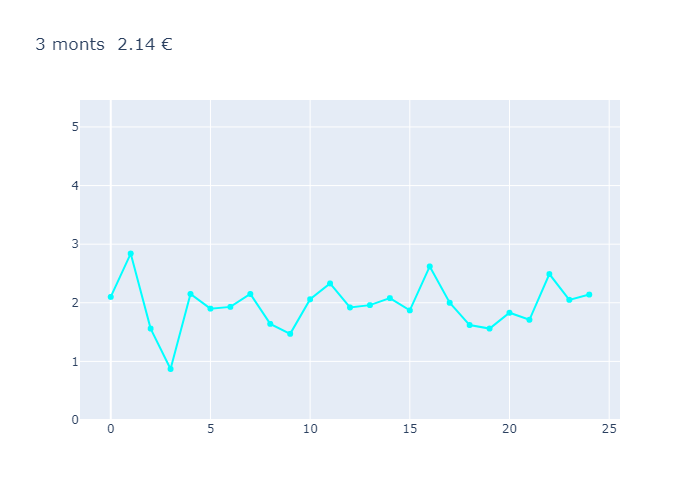
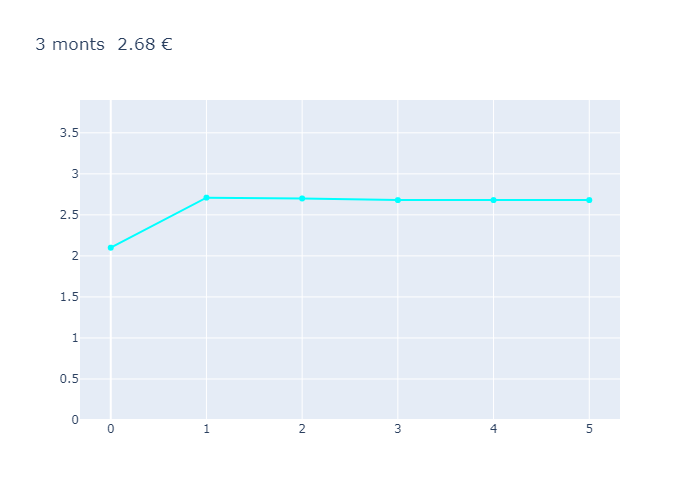
commit final

diff --git a/templates/tableau.html b/templates/tableau.html
@@ -6,19 +6,30 @@
         <title>Foyer Bourse</title>
         <link rel="icon" href="{{url_for('static', filename='images/logo.jpg')}}">
         <script>
-            
             var timeleft = localStorage.getItem("time_left") || {{time_left}};
-            var downloadTimer = setInterval(function(){
-                timeleft--;
-                var seconds = timeleft % 60;
-                var minutes = Math.floor(timeleft / 60);
-                document.getElementById("countdown").textContent = minutes + " minutes " + seconds + " secondes";
-                localStorage.setItem("time_left", timeleft);
-                if(timeleft <= 0)
-                    clearInterval(downloadTimer);
-            },1000);
-            localStorage.clear()
-        </script>   
+
+            function startTimer() {
+                var downloadTimer = setInterval(function(){
+                    timeleft--;
+                    var seconds = timeleft % 60;
+                    var minutes = Math.floor(timeleft / 60);
+                    document.getElementById("countdown").textContent = minutes + " minutes " + seconds + " secondes";
+                    localStorage.setItem("time_left", timeleft);
+                    if(timeleft <= 0) {
+                        clearInterval(downloadTimer);
+                        timeleft = {{time_left}};
+                        fetch('/countdown-finished')
+                        .then(response => response.text())
+                        .then(data => {
+                            console.log(data);
+                        });
+                        startTimer();
+                    }
+                },1000);
+                localStorage.clear();
+            }
+            startTimer();
+        </script>  
     </head>
     <body>
         <header>
@@ -40,6 +51,14 @@
                 </div>
             </div>
         </section>
+        <form method="POST" action="tableau" class="block">
+            <select name="selected_plot">
+              {% for beer in beers %}
+                <option value="{{ beer.get_name() }}">{{ beer.get_name() }}, {{beer.get_price()}}</option>
+              {% endfor %}
+            </select>
+            <input type="submit" value="je choisis cette bière">
+        </form>
         <table class="block">
             <tr>
                 <th>Bière</th>

diff --git a/templates/courbes.html b/templates/courbes.html
@@ -6,18 +6,29 @@
         <title>Foyer Bourse</title>
         <link rel="icon" href="{{url_for('static', filename='images/logo.jpg')}}">
         <script>
-            
             var timeleft = localStorage.getItem("time_left") || {{time_left}};
-            var downloadTimer = setInterval(function(){
-                timeleft--;
-                var seconds = timeleft % 60;
-                var minutes = Math.floor(timeleft / 60);
-                document.getElementById("countdown").textContent = minutes + " minutes " + seconds + " secondes";
-                localStorage.setItem("time_left", timeleft);
-                if(timeleft <= 0)
-                    clearInterval(downloadTimer);
-            },1000);
-            localStorage.clear()
+
+            function startTimer() {
+                var downloadTimer = setInterval(function(){
+                    timeleft--;
+                    var seconds = timeleft % 60;
+                    var minutes = Math.floor(timeleft / 60);
+                    document.getElementById("countdown").textContent = minutes + " minutes " + seconds + " secondes";
+                    localStorage.setItem("time_left", timeleft);
+                    if(timeleft <= 0) {
+                        clearInterval(downloadTimer);
+                        timeleft = {{time_left}};
+                        fetch('/countdown-finished')
+                        .then(response => response.text())
+                        .then(data => {
+                            console.log(data);
+                        });
+                        startTimer();
+                    }
+                },1000);
+                localStorage.clear();
+            }
+            startTimer();
         </script>
     </head>
 
@@ -25,7 +36,7 @@
         <header>
             <div class="block">
                 <div>
-                    <p class="head_box">Courbes des prix</p> 
+                    <p class="head_box">Courbes des prix</p>
                 </div>
             </div>
         </header>
@@ -41,6 +52,7 @@
                 </div>
             </div>
         </section>
+
         <form method="POST" action="courbes" class="block">
             <select name="selected_plot">
                 <option value="all">toutes les bières</option>

diff --git a/templates/accueil.html b/templates/accueil.html
@@ -6,18 +6,29 @@
         <title>Foyer Bourse</title>
         <link rel="icon" href="{{url_for('static', filename='images/logo.jpg')}}">
         <script>
-            
             var timeleft = localStorage.getItem("time_left") || {{time_left}};
-            var downloadTimer = setInterval(function(){
-                timeleft--;
-                var seconds = timeleft % 60;
-                var minutes = Math.floor(timeleft / 60);
-                document.getElementById("countdown").textContent = minutes + " minutes " + seconds + " secondes";
-                localStorage.setItem("time_left", timeleft);
-                if(timeleft <= 0)
-                    clearInterval(downloadTimer);
-            },1000);
-            localStorage.clear()
+
+            function startTimer() {
+                var downloadTimer = setInterval(function(){
+                    timeleft--;
+                    var seconds = timeleft % 60;
+                    var minutes = Math.floor(timeleft / 60);
+                    document.getElementById("countdown").textContent = minutes + " minutes " + seconds + " secondes";
+                    localStorage.setItem("time_left", timeleft);
+                    if(timeleft <= 0) {
+                        clearInterval(downloadTimer);
+                        timeleft = {{time_left}};
+                        fetch('/countdown-finished')
+                        .then(response => response.text())
+                        .then(data => {
+                            console.log(data);
+                        });
+                        startTimer();
+                    }
+                },1000);
+                localStorage.clear();
+            }
+            startTimer();
         </script>
     </head>
 

diff --git a/templates/recommandation.html b/templates/recommandation.html
@@ -7,16 +7,28 @@
         <link rel="icon" href="{{url_for('static', filename='images/logo.jpg')}}">
         <script>
             var timeleft = localStorage.getItem("time_left") || {{time_left}};
-            var downloadTimer = setInterval(function(){
-                timeleft--;
-                var seconds = timeleft % 60;
-                var minutes = Math.floor(timeleft / 60);
-                document.getElementById("countdown").textContent = minutes + " minutes " + seconds + " secondes";
-                localStorage.setItem("time_left", timeleft);
-                if(timeleft <= 0)
-                    clearInterval(downloadTimer);
-            },1000);
-            localStorage.clear()
+
+            function startTimer() {
+                var downloadTimer = setInterval(function(){
+                    timeleft--;
+                    var seconds = timeleft % 60;
+                    var minutes = Math.floor(timeleft / 60);
+                    document.getElementById("countdown").textContent = minutes + " minutes " + seconds + " secondes";
+                    localStorage.setItem("time_left", timeleft);
+                    if(timeleft <= 0) {
+                        clearInterval(downloadTimer);
+                        timeleft = {{time_left}};
+                        fetch('/countdown-finished')
+                        .then(response => response.text())
+                        .then(data => {
+                            console.log(data);
+                        });
+                        startTimer();
+                    }
+                },1000);
+                localStorage.clear();
+            }
+            startTimer();
         </script>
     </head>
     <body>

diff --git a/main.py b/main.py
@@ -1,43 +1,58 @@
-from flask import Flask, send_file,render_template,request
-from matplotlib import pyplot as plt
+from flask import Flask, send_file, render_template, request
+import jinja2
 
 import application
-import beer_load
+from model import beer
 from beer_load import *
 from application import *
 from recommandation import *
 import time
 
-app = Flask(__name__,static_folder='static')
+app = Flask(__name__, static_folder='static')
 app.debug = True
 
-n = 300
+n = 120
+
+conso = fonction_de_conso(beer_load.beer_list, beer_load.tab, application.init_price)
+beer_load.tab.adjst_conso(conso)
+beer_load.tab.model_function()
+for selected_plot in beer_list:
+    tab.draw_curve(selected_plot.get_name())
+tab.draw_curve('all')
 
 @app.route('/courbes', methods=['GET', 'POST'])
 def courbes():
     selected_plot = 'all'
     if request.method == 'POST':
         selected_plot = request.form['selected_plot']
-        conso = fonction_de_conso(beer_load.beer_list, beer_load.tab, application.init_price)
-        beer_load.tab.adjst_conso(conso)
-        beer_load.tab.model_function()
-        tab.draw_curve(selected_plot)
-    return render_template('courbes.html', beers=beer_load.beer_list,selected_plot=selected_plot,time_left=n)
+    return render_template('courbes.html', beers=beer_load.beer_list, selected_plot=selected_plot)
+
+@app.route('/countdown-finished')
+def countdown_finished():
+    beer_load.tab.adjst_conso(conso)
+    beer_load.tab.model_function()
+    for selected_plot in beer_list:
+        tab.draw_curve(selected_plot.get_name())
+    tab.draw_curve('all')
+    return
 
 @app.route('/accueil')
 def index():
-    return render_template('accueil.html',time_left=n)
+    return render_template('accueil.html', time_left=n)
+
 
 @app.route('/recommandation')
 def recommandation_display():
-    beer=beer_load.beer_list[recommandation(306)%tab.nb_beers]
-    return render_template('recommandation.html', beers=beer,time_left=n)
+    beer = beer_load.beer_list[recommandation(309) % tab.nb_beers]
+    return render_template('recommandation.html', beers=beer, time_left=n)
 
 
-@app.route('/tableau')
+@app.route('/tableau', methods=['GET', 'POST'])
 def table_of_price():
-    return render_template('tableau.html', beers=beer_load.beer_list,time_left=n)
-
+    if request.method == 'POST':
+        selected_plot = request.form['selected_plot']
+        conso[selected_plot] += 1
+    return render_template('tableau.html', beers=beer_load.beer_list, time_left=n)
 
 
 if __name__ == '__main__':

diff --git a/application.py b/application.py
@@ -64,7 +64,7 @@ tab.draw_curve(beer_all)
 for beer in beers:
     tab.draw_curve(beer)'''
 
-for k in range(2):
+'''for k in range(2):
 
     consos={}
     for beer in beer_load.beer_list:
@@ -76,7 +76,7 @@ for k in range(2):
 
     
     beer_load.tab.adjst_conso(consos)
-    beer_load.tab.model_function()
+    beer_load.tab.model_function()'''
 
 
 

diff --git a/README.md b/README.md
@@ -1,1 +1,11 @@
 # PROJET-TDLOG
+Pour lancer le site il faut :
+lancer le main.py et attendre qu'il crée l'ip virtuelle
+ensuite aller à l'adresse suivante http://127.0.0.1:5000/accueil
+
+Le site marche comme ceci :
+vous êtes considéré comme un utilisateur unique, malheureusement il n'y a pour le moment personne d'autres sur le site
+Catalogue vous permet de voir le prix des boissons, ainsi qu'un formulaire qui permet d'en choisir une.
+Lorsque le compte à rebours est terminé toutes les boissons choisies sont comptabilisées dans l'évolution des prix (il faut recharger la page)
+la page courbe permet d'afficher les courbes de différentes boissons
+La page recommandation affiche la recommandation selon vos consommations, cependant comme il n'y a pas d'autre utilisateurs, l'algorithme n'évolue pas connaissant le modèle de comparaison utilisé, ainsi on a mis la proposition d'un identifiant quelconque, cependant celui-ci n'évolue alors pas en fonction de vos consommations
